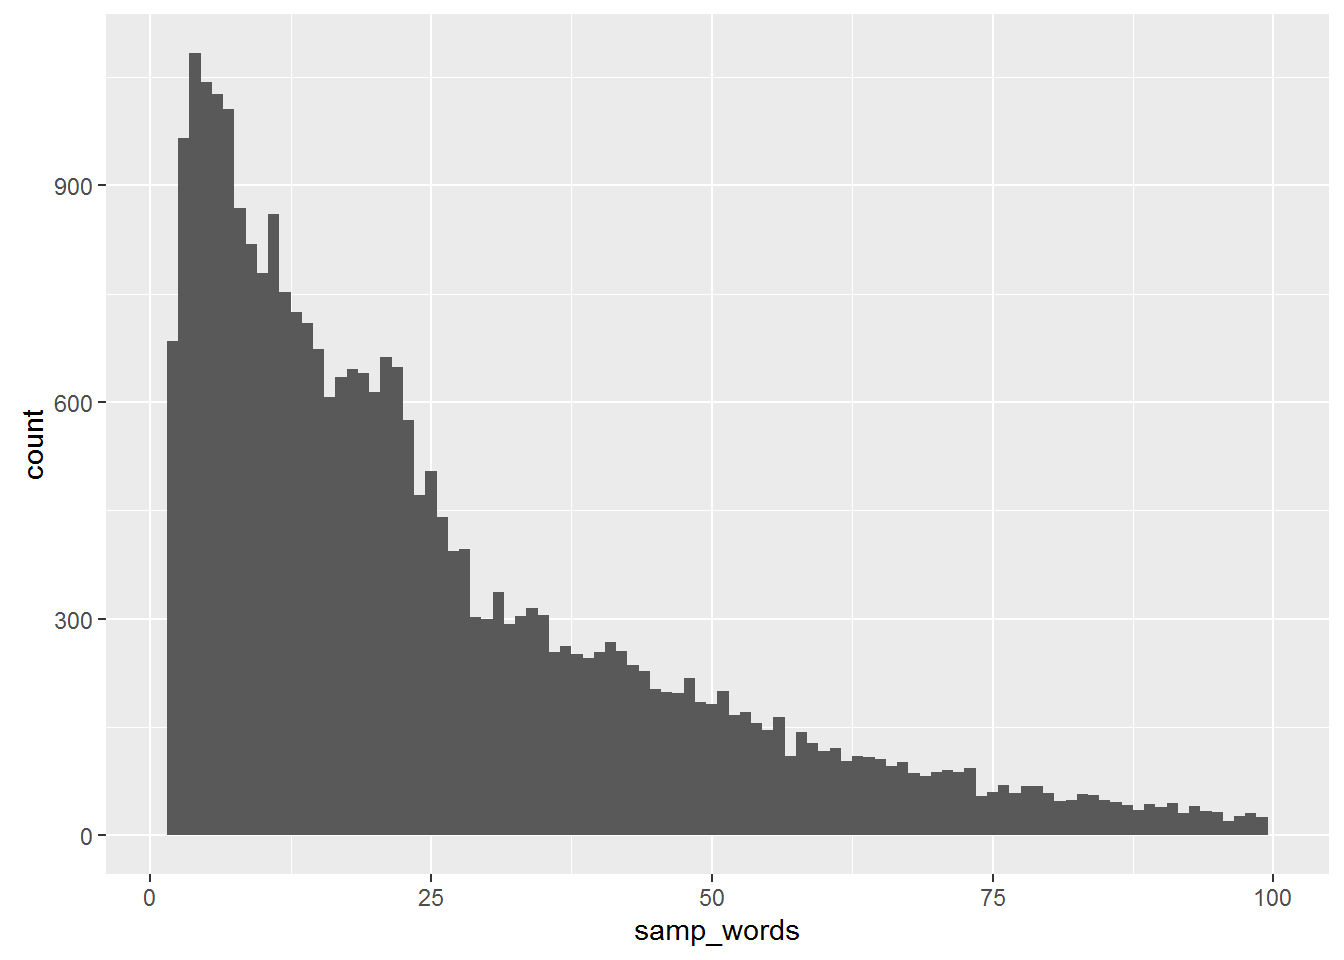
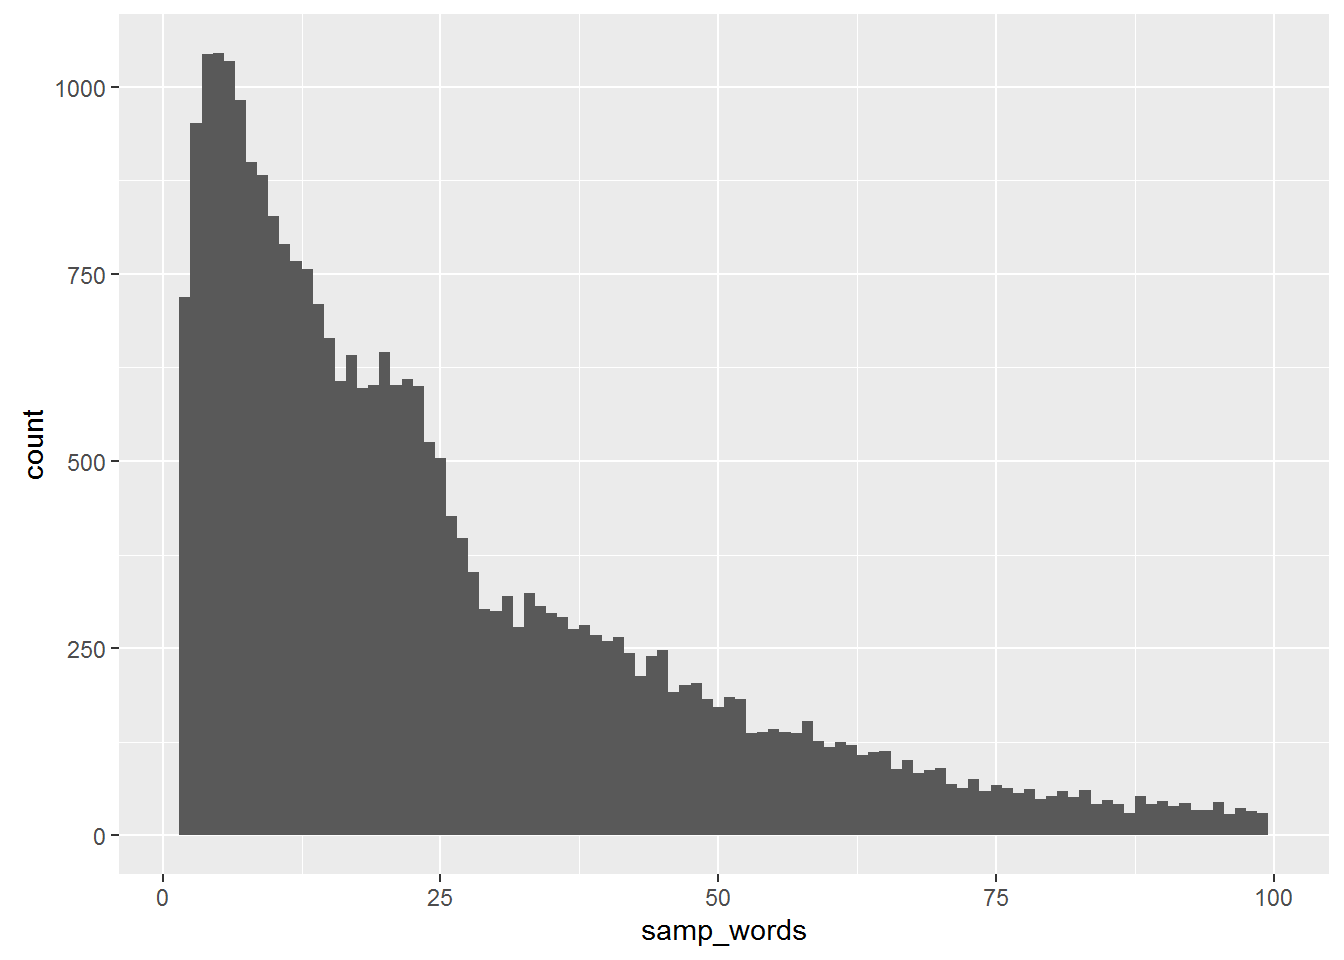
Redo sample corpus

diff --git a/Capstone-Project/milestone-report/milestone-report.html b/Capstone-Project/milestone-report/milestone-report.html
@@ -240,21 +240,22 @@ news_samp &lt;- news[sample(1:length(news),10000)]
 twitter_samp &lt;- twitter[sample(1:length(twitter),10000)]
 all_samp &lt;- c(blogs_samp, news_samp, twitter_samp)
 
-# Save the sampled data to an .RData files
-save(all_samp, file=&quot;all_samp.RData&quot;)
+# Save the sampled data to a .txt files
+save(all_samp, file=&quot;all_samp.txt&quot;)
+#writeLines(all_samp, &quot;./sample/all_samp.txt&quot;)
 
 # Statistics for the sample
 stri_stats_general(all_samp)</code></pre>
 <pre><code>##       Lines LinesNEmpty       Chars CharsNWhite 
-##       30000       30000     4991981     4137394</code></pre>
+##       30000       30000     5022978     4165845</code></pre>
 <pre class="r"><code>samp_words &lt;- stri_count_words(all_samp)
 
 summary(samp_words)</code></pre>
 <pre><code>##    Min. 1st Qu.  Median    Mean 3rd Qu.    Max. 
-##    1.00    9.00   20.00   29.65   39.00  902.00</code></pre>
+##    1.00    9.00   20.00   29.75   39.00  766.00</code></pre>
 <pre class="r"><code>qplot(samp_words, binwidth=1, xlim=c(1, 100))</code></pre>
-<pre><code>## Warning: Removed 1054 rows containing non-finite values (stat_bin).</code></pre>
[1 lines of base64/hex data omitted]
+<pre><code>## Warning: Removed 1092 rows containing non-finite values (stat_bin).</code></pre>
[1 lines of base64/hex data omitted]
 </div>
 </div>
 <div id="data-cleaning" class="section level2">
@@ -264,11 +265,32 @@ summary(samp_words)</code></pre>
 <li>Convert all words to lower case</li>
 <li>Strip away all white space</li>
 <li>Strip away all punctuation</li>
-<li>Strip way various non-alphanumeric characters</li>
 <li>Strip away all numbers</li>
-<li><p>Remove stop words</p></li>
-<li><p>Strip away all urls</p></li>
+<li>Strip way various non-alphanumeric characters</li>
+<li>Remove stop words</li>
+<li>Strip away all urls</li>
 </ul>
+<pre class="r"><code>cname &lt;- file.path(&quot;&quot;)
+corp &lt;- Corpus(DirSource(cname))
+#corp &lt;- Corpus(&quot;all_samp.RData&quot;)
+
+# Perform the transformations
+corp &lt;- tm_map(corp, content_transformer(tolower))
+corp &lt;- tm_map(corp, stripWhitespace)
+corp &lt;- tm_map(corp, removePunctuation)
+corp &lt;- tm_map(corp, removeNumbers)
+# The characters /, @, |, and # can appear in email and tweets
+special_chars &lt;- content_transformer(function(x, pattern) gsub(pattern, &quot; &quot;, x))
+corp &lt;- tm_map(corp, special_chars, &quot;#|/|@|\\|&quot;)
+
+corp &lt;- tm_map(corp, removeWords, stopwords(&quot;english&quot;))
+
+# See http://www.rdatamining.com/books/rdm/faq/removeurlsfromtext
+removeURL &lt;- function(x) gsub(&quot;http[[:alnum:][:punct:]]*&quot;, &quot;&quot;, x) 
+corp &lt;- tm_map(corp, content_transformer(removeURL))
+
+# Save the cleaned corpus
+writeCorpus(corp)</code></pre>
 </div>
 
 
